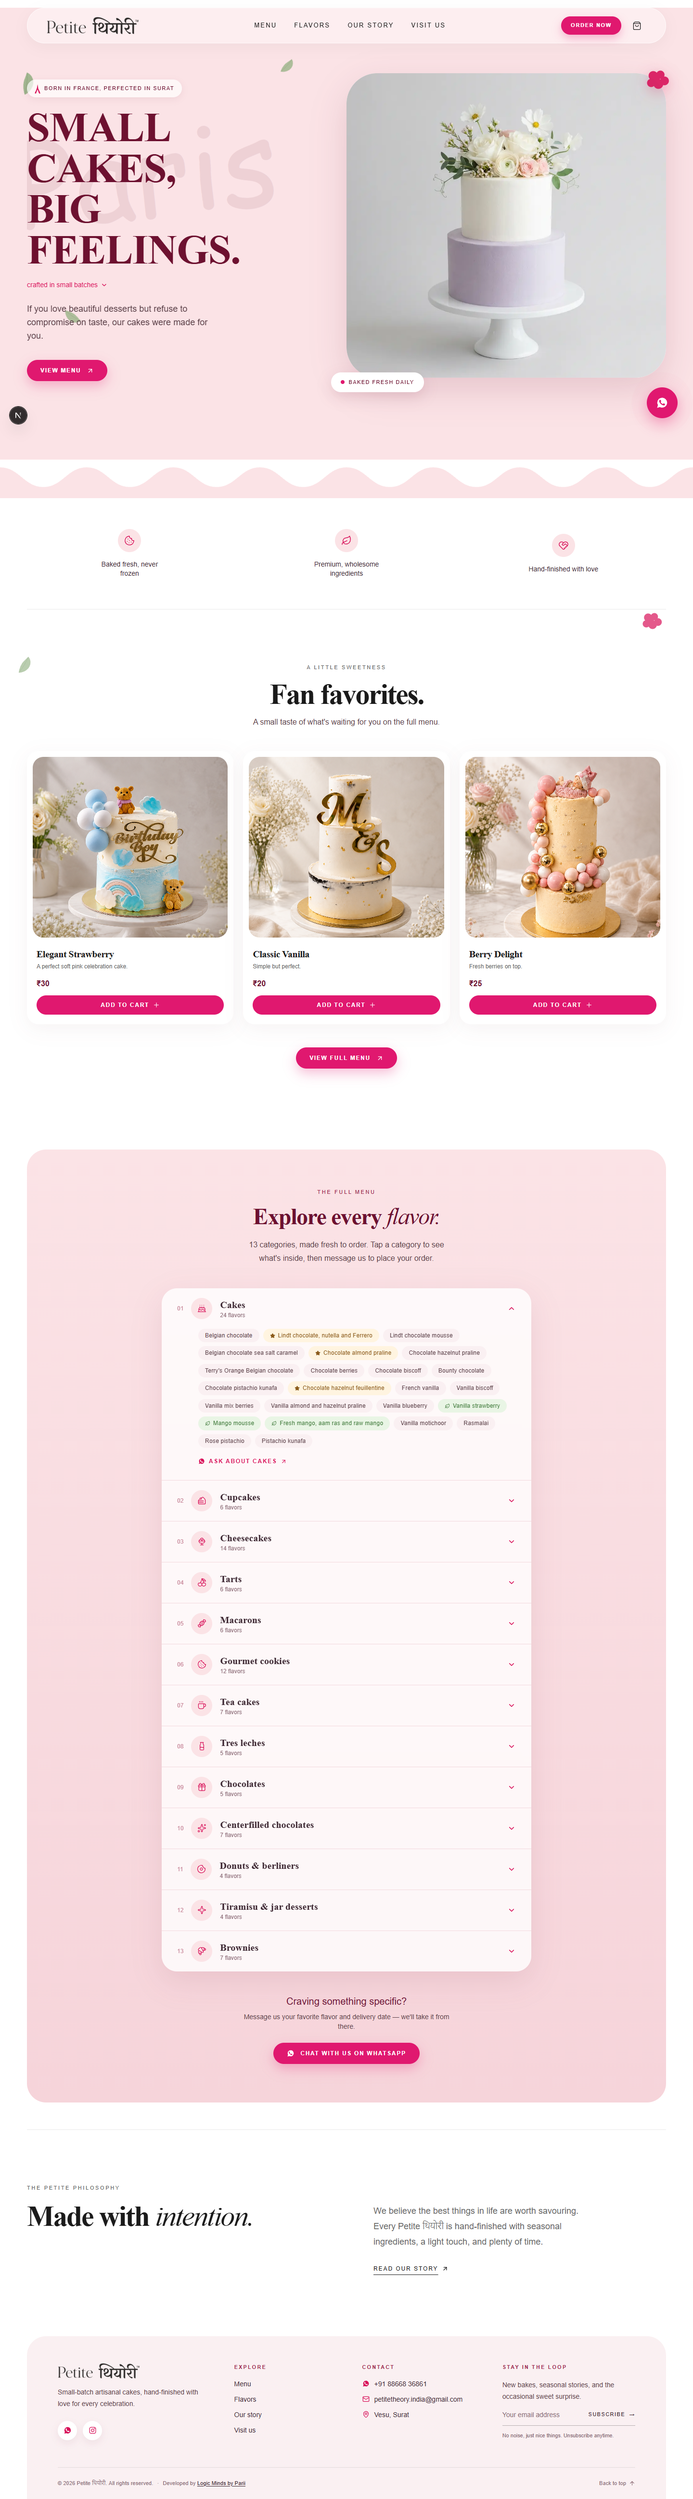
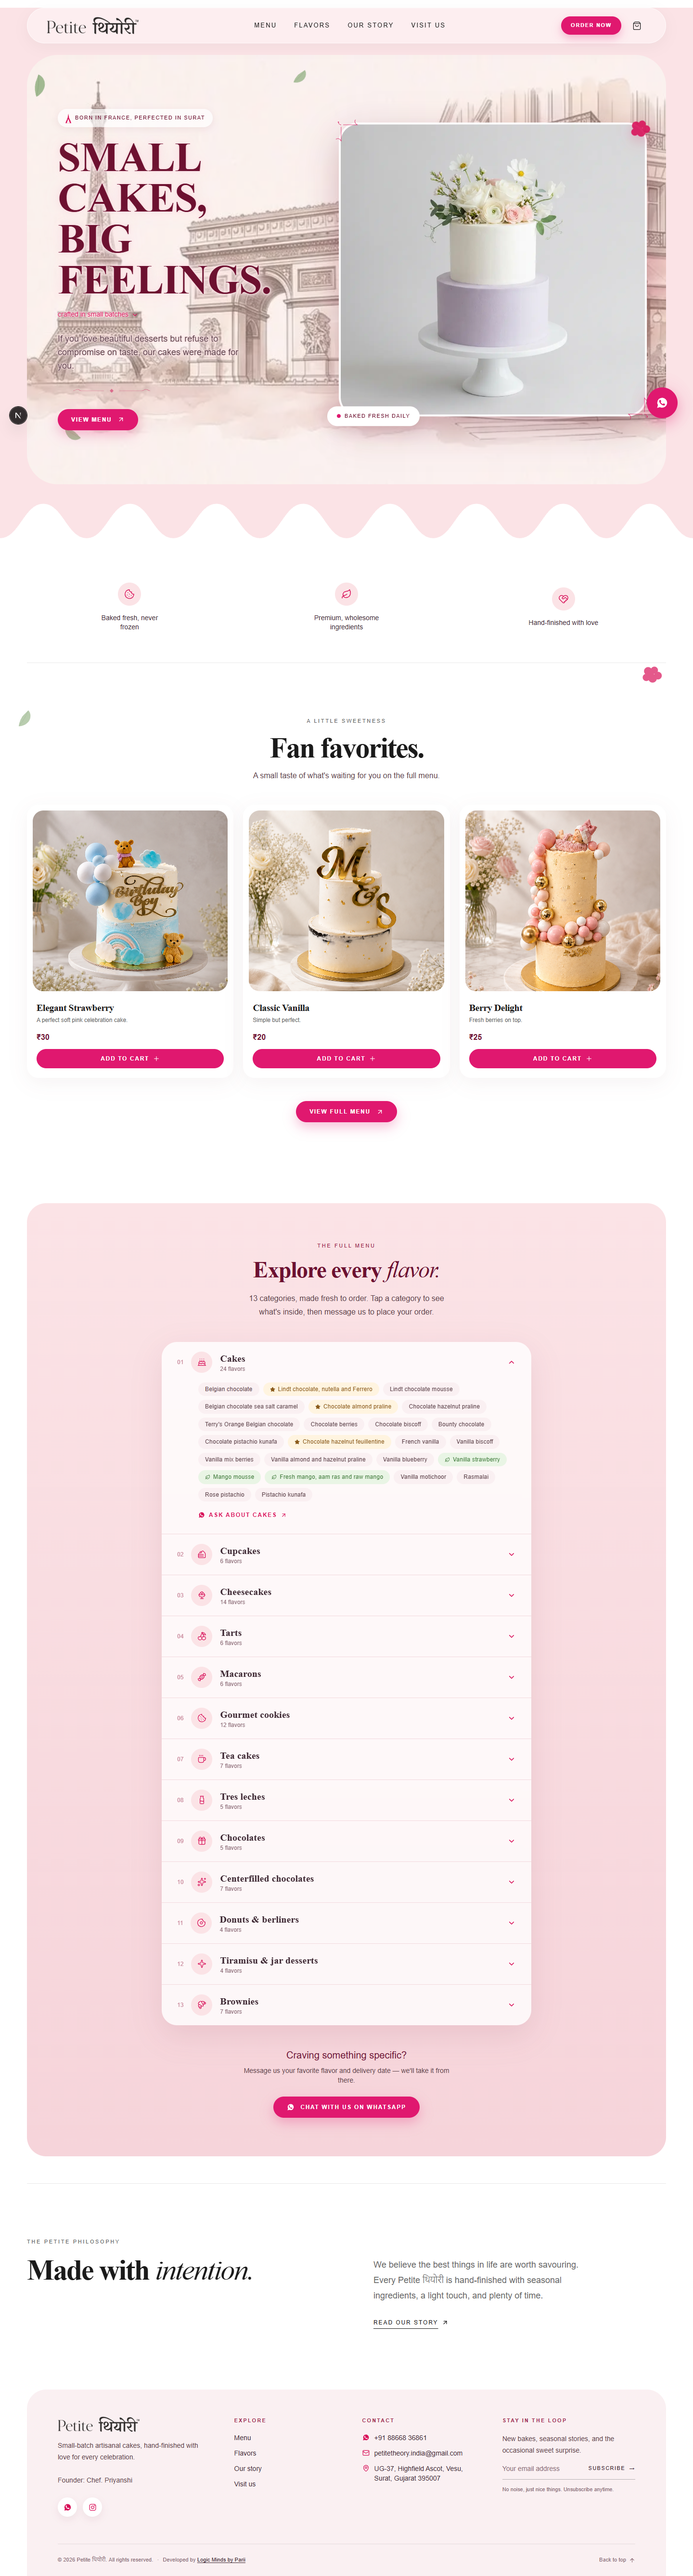
Update frontend UI components, hero section, and add new assets

diff --git a/frontend/src/components/home/HeroSection.tsx b/frontend/src/components/home/HeroSection.tsx
@@ -8,32 +8,36 @@ import gsap from "gsap";
 import Leaf from "./Leaf";
 import BerryBlob from "./BerryBlob";
 import EiffelTowerIcon from "./EiffelTowerIcon";
+import FlourishDivider from "./FlourishDivider";
+import CornerFlourish from "./CornerFlourish";
 
 export default function HeroSection() {
   const sectionRef = useRef<HTMLElement>(null);
   const imageRef = useRef<HTMLDivElement>(null);
+  const contentRef = useRef<HTMLDivElement>(null);
   const badgeRef = useRef<HTMLDivElement>(null);
   const leaf1 = useRef<HTMLDivElement>(null);
   const leaf2 = useRef<HTMLDivElement>(null);
   const leaf3 = useRef<HTMLDivElement>(null);
+  const blobRef = useRef<HTMLDivElement>(null);
 
   useEffect(() => {
     const ctx = gsap.context(() => {
       gsap.from(imageRef.current, {
-        scale: 0.9,
+        scale: 1.06,
         opacity: 0,
-        duration: 1.5,
+        duration: 1.4,
         ease: "power3.out",
-        delay: 0.2,
+        clearProps: "transform,opacity",
       });
 
-      gsap.to(imageRef.current, {
-        y: -15,
-        duration: 3,
-        repeat: -1,
-        yoyo: true,
-        ease: "sine.inOut",
-        delay: 1.3,
+      gsap.from(contentRef.current, {
+        y: 24,
+        opacity: 0,
+        duration: 1,
+        ease: "power3.out",
+        delay: 0.3,
+        clearProps: "transform,opacity",
       });
 
       gsap.from(badgeRef.current, {
@@ -42,9 +46,10 @@ export default function HeroSection() {
         duration: 0.8,
         ease: "back.out(1.7)",
         delay: 1,
+        clearProps: "transform,opacity",
       });
 
-      [leaf1.current, leaf2.current, leaf3.current].forEach((leaf, i) => {
+      [leaf1.current, leaf2.current, leaf3.current, blobRef.current].forEach((leaf, i) => {
         if (!leaf) return;
         gsap.to(leaf, {
           y: i % 2 === 0 ? -16 : 16,
@@ -63,75 +68,87 @@ export default function HeroSection() {
     <section
       ref={sectionRef}
       id="top"
-      className="relative grid items-center gap-10 pb-24 pt-8 sm:pb-32 lg:grid-cols-[0.95fr_1.05fr] lg:gap-16 lg:pb-40 lg:pt-12"
+      className="relative isolate transform-gpu overflow-hidden rounded-[2.5rem] bg-[#fbe3e6] sm:rounded-[3.5rem] lg:rounded-[4rem]"
     >
-      <div
-        aria-hidden="true"
-        className="pointer-events-none absolute inset-0 overflow-hidden select-none"
-      >
-        <span className="absolute left-[2%] top-[22%] -rotate-6 whitespace-nowrap font-script text-[5rem] leading-none text-[#6d1130]/9 sm:left-[-2%] sm:top-[10%] sm:text-[11rem] lg:top-[14%] lg:text-[15rem]">
-          Paris
-        </span>
+      <div ref={imageRef} className="absolute inset-0 -z-10 transform-gpu overflow-hidden">
+        <Image
+          src="/paris-sketch.jpg"
+          alt="Watercolor sketch of the Eiffel Tower, Arc de Triomphe, and a Parisian café"
+          fill
+          priority
+          className="object-cover object-[38%_center] opacity-60 sm:object-[55%_center] lg:object-center"
+        />
       </div>
 
-      <div ref={leaf1} className="pointer-events-none absolute -left-3 top-[6%] hidden sm:block">
-        <Leaf className="h-12 w-8 -rotate-[20deg] opacity-80" />
-      </div>
-      <div ref={leaf2} className="pointer-events-none absolute left-[40%] -top-2 hidden lg:block">
-        <Leaf className="h-9 w-6 rotate-[35deg] opacity-70" />
-      </div>
-      <div ref={leaf3} className="pointer-events-none absolute left-[6%] top-[64%] hidden sm:block">
-        <Leaf className="h-10 w-7 rotate-[100deg] opacity-70" />
-      </div>
-
-      <div className="relative max-w-xl">
-        <div className="mb-5 inline-flex items-center gap-2 rounded-full bg-white/70 px-4 py-2 font-body text-[0.68rem] font-medium uppercase tracking-[0.14em] text-[#6d1130] shadow-[0_4px_14px_rgba(109,17,48,0.08)]">
-          <EiffelTowerIcon size={12} className="text-[#d81159]" />
-          Born in France, perfected in Surat
-        </div>
-        <h1 className="font-display text-[clamp(2.6rem,6.4vw,5.4rem)] font-bold uppercase leading-[0.98] tracking-[-0.02em] text-[#6d1130]">
-          Small cakes,
-          <br />
-          big feelings.
-        </h1>
-        <p className="mt-5 inline-flex items-center gap-1.5 font-body text-sm font-medium text-[#d81159]">
-          crafted in small batches
-          <ChevronDown size={15} className="mt-0.5" />
-        </p>
-        <p className="mt-6 max-w-sm font-body text-base font-light leading-7 text-[#5b4048] sm:text-lg">
-          If you love beautiful desserts but refuse to compromise on taste, our
-          cakes were made for you.
-        </p>
-        <Link
-          href="/#creations"
-          className="mt-9 inline-flex items-center gap-3 rounded-full bg-[#e0186f] px-7 py-3.5 font-body text-xs font-semibold uppercase tracking-[0.14em] text-white shadow-[0_10px_25px_rgba(224,24,111,0.28)] transition-transform hover:-translate-y-1"
-        >
-          View menu <ArrowUpRight size={15} />
-        </Link>
-      </div>
-
-      <div className="relative mx-auto w-full max-w-2xl">
-        <div
-          ref={imageRef}
-          className="relative aspect-[1.05/1] overflow-hidden rounded-[2.5rem] bg-white shadow-[0_25px_70px_rgba(109,17,48,0.15)] sm:rounded-[4rem]"
-        >
+      <div className="absolute right-6 top-1/2 hidden -translate-y-1/2 lg:block xl:right-10">
+        <div className="relative aspect-[1.05/1] w-96 overflow-hidden rounded-[2.5rem] border-4 border-white bg-white shadow-[0_25px_70px_rgba(109,17,48,0.28)] xl:w-160">
           <Image
             src="/cakes/hero-cake-new.jpg"
             alt="White frosted cake decorated with fresh flowers"
             fill
-            priority
             className="object-cover"
           />
         </div>
+        <div className="pointer-events-none absolute -left-2 -top-2 text-[#d81159]/70">
+          <CornerFlourish className="h-9 w-9 sm:h-12 sm:w-12" />
+        </div>
+        <div className="pointer-events-none absolute -bottom-2 -right-2 rotate-180 text-[#d81159]/70">
+          <CornerFlourish className="h-9 w-9 sm:h-12 sm:w-12" />
+        </div>
+        <div ref={blobRef} className="pointer-events-none absolute -right-4 -top-5">
+          <BerryBlob className="h-14 w-14 opacity-90 drop-shadow-[0_8px_15px_rgba(216,17,89,0.35)]" />
+        </div>
         <div
           ref={badgeRef}
-          className="absolute -bottom-5 -left-3 rounded-full bg-white px-5 py-3 font-body text-[0.67rem] uppercase tracking-[0.15em] text-[#6d1130] shadow-[0_10px_30px_rgba(109,17,48,0.15)] sm:-left-8"
+          className="absolute -bottom-5 -left-6 inline-flex items-center rounded-full bg-white px-5 py-3 font-body text-[0.67rem] uppercase tracking-[0.15em] text-[#6d1130] shadow-[0_10px_30px_rgba(109,17,48,0.15)]"
         >
           <span className="mr-2 inline-block size-2 rounded-full bg-[#e0186f]" />
           Baked fresh daily
         </div>
-        <div className="pointer-events-none absolute -right-4 -top-6 hidden sm:block">
-          <BerryBlob className="h-16 w-16 opacity-90 drop-shadow-[0_8px_15px_rgba(216,17,89,0.35)]" />
+      </div>
+
+      <div ref={leaf1} className="pointer-events-none absolute left-3 top-[6%] hidden sm:block">
+        <Leaf className="h-12 w-8 rotate-[-20deg] opacity-80" />
+      </div>
+      <div ref={leaf2} className="pointer-events-none absolute left-[42%] top-4 hidden lg:block">
+        <Leaf className="h-9 w-6 rotate-35 opacity-70" />
+      </div>
+      <div ref={leaf3} className="pointer-events-none absolute left-[6%] bottom-[8%] hidden sm:block">
+        <Leaf className="h-10 w-7 rotate-100 opacity-70" />
+      </div>
+
+      <div className="relative px-6 py-14 sm:px-10 sm:py-20 lg:px-16 lg:py-28">
+        <div ref={contentRef} className="max-w-xl">
+          <div className="mb-5 inline-flex items-center gap-2 rounded-full bg-white/70 px-4 py-2 font-body text-[0.68rem] font-medium uppercase tracking-[0.14em] text-[#6d1130] shadow-[0_4px_14px_rgba(109,17,48,0.08)]">
+            <EiffelTowerIcon size={12} className="text-[#d81159]" />
+            Born in France, perfected in Surat
+          </div>
+          <h1 className="font-display text-[clamp(2.6rem,6.4vw,5.4rem)] font-bold uppercase leading-[0.98] tracking-[-0.02em] text-[#6d1130] [text-shadow:0_0_1px_#fbe3e6,0_0_1px_#fbe3e6,0_0_4px_#fbe3e6,0_0_4px_#fbe3e6,0_0_10px_#fbe3e6,0_0_20px_#fbe3e6,0_0_34px_#fbe3e6]">
+            Small cakes,
+            <br />
+            big feelings.
+          </h1>
+          <p className="mt-5 inline-flex items-center gap-1.5 font-body text-sm font-medium text-[#d81159] [text-shadow:0_0_1px_#fbe3e6,0_0_1px_#fbe3e6,0_0_3px_#fbe3e6,0_0_3px_#fbe3e6,0_0_8px_#fbe3e6,0_0_16px_#fbe3e6,0_0_26px_#fbe3e6]">
+            crafted in small batches
+            <ChevronDown size={15} className="mt-0.5" />
+          </p>
+          <p className="mt-6 max-w-sm font-body text-base font-light leading-7 text-[#5b4048] [text-shadow:0_0_1px_#fbe3e6,0_0_1px_#fbe3e6,0_0_3px_#fbe3e6,0_0_3px_#fbe3e6,0_0_8px_#fbe3e6,0_0_18px_#fbe3e6,0_0_30px_#fbe3e6] sm:text-lg">
+            If you love beautiful desserts but refuse to compromise on taste, our
+            cakes were made for you.
+          </p>
+          <FlourishDivider className="mt-7 h-5 w-48 text-[#d81159]/50 drop-shadow-sm sm:w-56" />
+          <div className="mt-7 flex flex-wrap items-center gap-5">
+            <Link
+              href="/#creations"
+              className="inline-flex items-center gap-3 rounded-full bg-[#e0186f] px-7 py-3.5 font-body text-xs font-semibold uppercase tracking-[0.14em] text-white shadow-[0_10px_25px_rgba(224,24,111,0.28)] transition-transform hover:-translate-y-1"
+            >
+              View menu <ArrowUpRight size={15} />
+            </Link>
+            <div className="inline-flex items-center rounded-full bg-white px-5 py-3 font-body text-[0.67rem] uppercase tracking-[0.15em] text-[#6d1130] shadow-[0_10px_30px_rgba(109,17,48,0.15)] lg:hidden">
+              <span className="mr-2 inline-block size-2 rounded-full bg-[#e0186f]" />
+              Baked fresh daily
+            </div>
+          </div>
         </div>
       </div>
     </section>

diff --git a/frontend/src/components/home/CornerFlourish.tsx b/frontend/src/components/home/CornerFlourish.tsx
@@ -1,0 +1,19 @@
+export default function CornerFlourish({ className = "" }: { className?: string }) {
+  return (
+    <svg
+      viewBox="0 0 60 60"
+      fill="none"
+      stroke="currentColor"
+      strokeWidth="1.4"
+      className={className}
+      aria-hidden="true"
+    >
+      <path d="M58,16 L22,16" strokeLinecap="round" />
+      <path d="M16,22 L16,58" strokeLinecap="round" />
+      <path d="M16,16 C9,16 9,9 9,9" strokeLinecap="round" />
+      <circle cx="9" cy="9" r="1.6" fill="currentColor" stroke="none" />
+      <path d="M58,16 C52,13 50,8 53,3" strokeLinecap="round" />
+      <path d="M16,58 C13,52 8,50 3,53" strokeLinecap="round" />
+    </svg>
+  );
+}

diff --git a/frontend/src/app/globals.css b/frontend/src/app/globals.css
@@ -1,11 +1,10 @@
-@import url('https://fonts.googleapis.com/css2?family=Playfair+Display:ital,wght@0,400;0,600;0,700;1,400;1,600&family=Outfit:wght@300;400;500;600&family=Amita:wght@400;700&family=Parisienne&display=swap');
+@import url('https://fonts.googleapis.com/css2?family=Playfair+Display:ital,wght@0,400;0,600;0,700;1,400;1,600&family=Outfit:wght@300;400;500;600&family=Amita:wght@400;700&display=swap');
 @import "tailwindcss";
 
 @theme {
   --font-brand: var(--font-logo), cursive;
   --font-display: var(--font-heading), serif;
   --font-body: var(--font-body), sans-serif;
-  --font-script: "Parisienne", cursive;
 }
 
 @layer base {

diff --git a/frontend/src/components/home/FlourishDivider.tsx b/frontend/src/components/home/FlourishDivider.tsx
@@ -1,0 +1,16 @@
+export default function FlourishDivider({ className = "" }: { className?: string }) {
+  return (
+    <svg
+      viewBox="0 0 320 40"
+      fill="none"
+      stroke="currentColor"
+      strokeWidth="1.4"
+      className={className}
+      aria-hidden="true"
+    >
+      <path d="M0,20 C8,20 10,14 18,14 C26,14 26,20 34,20 L128,20" strokeLinecap="round" />
+      <path d="M320,20 C312,20 310,14 302,14 C294,14 294,20 286,20 L192,20" strokeLinecap="round" />
+      <path d="M160,12 L168,20 L160,28 L152,20 Z" fill="currentColor" stroke="none" />
+    </svg>
+  );
+}

diff --git a/frontend/src/app/page.tsx b/frontend/src/app/page.tsx
@@ -33,12 +33,12 @@ export default function Home() {
 
   return (
     <main className="min-h-screen overflow-hidden bg-white text-[#1a1a1a]">
-      <div className="relative bg-[#fbe3e6]">
+      <div className="relative bg-[#fbe3e6] ">
         <div className="mx-auto max-w-[1440px] px-5 sm:px-8 lg:px-14">
           <Navbar />
           <HeroSection />
         </div>
-        <DripDivider />
+        <DripDivider flip />
       </div>
 
       <div className="mx-auto max-w-[1440px] px-5 sm:px-8 lg:px-14">

diff --git a/frontend/src/components/home/DripDivider.tsx b/frontend/src/components/home/DripDivider.tsx
@@ -12,7 +12,7 @@ export default function DripDivider({ color = "#ffffff", flip = false }: DripDiv
       <svg
         viewBox="0 0 1440 90"
         preserveAspectRatio="none"
-        className="block h-[36px] w-full sm:h-[56px] lg:h-[80px]"
+        className="block h-[36px] w-full sm:h-[56px] lg:h-[140px]"
       >
         <path
           fill={color}
